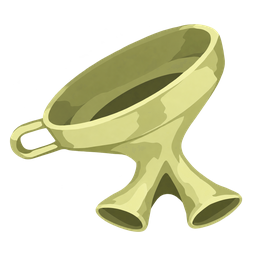
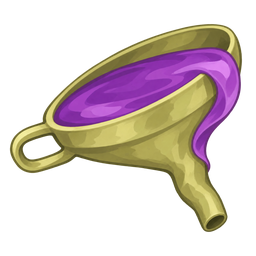
Release Relic Upgrades v0.113.1.5

diff --git a/src/RelicOverlayArt.cs b/src/RelicOverlayArt.cs
@@ -1,0 +1,68 @@
+using Godot;
+using MegaCrit.Sts2.Core.Models;
+
+namespace AaaCode.RelicForge;
+
+internal static class RelicOverlayArt
+{
+    private static readonly Dictionary<string, ImageTexture> Icons = new(StringComparer.Ordinal);
+
+    internal static string? Resolve(string size, string overlayPath, RelicModel original)
+    {
+        if (size == "outline")
+            return original.IconOutline?.ResourcePath;
+
+        lock (Icons)
+        {
+            if (Icons.TryGetValue(overlayPath, out var cached))
+                return cached.ResourcePath;
+
+            var source = size == "detail" ? original.BigIcon : original.Icon;
+            if (source is null || !ResourceLoader.Exists(overlayPath, "Texture2D"))
+                return source?.ResourcePath;
+
+            var overlay = ResourceLoader.Load<Texture2D>(overlayPath);
+            using var overlayImage = CopyPixels(overlay);
+            using var image = ReadIcon(source);
+            if (image is null || overlayImage is null || image.GetSize() != overlayImage.GetSize())
+                return source.ResourcePath;
+
+            image.BlendRect(overlayImage, new Rect2I(Vector2I.Zero, overlayImage.GetSize()), Vector2I.Zero);
+
+            var icon = ImageTexture.CreateFromImage(image);
+            icon.TakeOverPath(overlayPath.Replace("/art/", "/composed/", StringComparison.Ordinal));
+            Icons.Add(overlayPath, icon);
+            return icon.ResourcePath;
+        }
+    }
+
+    private static Image? ReadIcon(Texture2D texture)
+    {
+        if (texture is not AtlasTexture atlas)
+            return CopyPixels(texture);
+
+        using var atlasImage = CopyPixels(atlas.Atlas);
+        if (atlasImage is null)
+            return null;
+
+        var icon = Image.CreateEmpty(texture.GetWidth(), texture.GetHeight(), false, Image.Format.Rgba8);
+        icon.BlitRect(atlasImage, (Rect2I)atlas.Region, (Vector2I)atlas.Margin.Position);
+        return icon;
+    }
+
+    private static Image? CopyPixels(Texture2D? texture)
+    {
+        using var source = texture?.GetImage();
+        if (source is null || source.IsEmpty())
+            return null;
+
+        var image = Image.CreateFromData(source.GetWidth(), source.GetHeight(), source.HasMipmaps(), source.GetFormat(), source.GetData());
+        if (image.IsCompressed() && image.Decompress() != Error.Ok)
+        {
+            image.Dispose();
+            return null;
+        }
+        image.Convert(Image.Format.Rgba8);
+        return image;
+    }
+}

diff --git a/src/ForgeCatalog.Generated.cs b/src/ForgeCatalog.Generated.cs
@@ -336,8 +336,10 @@ public sealed class ForgedTwistedFunnel : CatalogRelic
 {
     internal override string MaterialId => "TWISTED_FUNNEL";
     internal override RelicModel Original => ModelDb.Relic<TwistedFunnel>();
-    internal override string ChineseName => "双口漏斗";
-    internal override string ChineseEffect => "战斗开始时向全体敌人施加4层中毒。第2回合开始时，再为仍处于中毒的敌人各补2层。";
+    internal override string ChineseName => "溢流漏斗";
+    internal override string EnglishName => "Overflow Funnel";
+    internal override string ChineseEffect => "战斗开始时，给所有敌人施加4层中毒。每场战斗第一次你使一名敌人的中毒从不足8层叠到至少8层时，给所有敌人各施加2层中毒。";
+    internal override string EnglishEffect => "At the start of combat, apply 4 Poison to all enemies. The first time each combat you raise an enemy's Poison from below 8 to 8 or more, apply 2 Poison to all enemies.";
 }
 
 public sealed class ForgedParryingShield : CatalogRelic

diff --git a/src/CatalogCombatTriggers.cs b/src/CatalogCombatTriggers.cs
@@ -126,6 +126,12 @@ public abstract partial class CatalogRelic
         if (applier != Me || !power.Owner.IsEnemy) return;
         switch (MaterialId)
         {
+            case "TWISTED_FUNNEL" when power is PoisonPower && power.Owner.IsAlive && power.Amount >= 8 &&
+                 power.Amount - amount < 8 && CombatOnce("funnel-overflow"):
+                Flash();
+                foreach (Creature enemy in Enemies.ToArray())
+                    await Apply<PoisonPower>(enemy, 2, context);
+                break;
             case "SNECKO_SKULL" when power is PoisonPower && power.Amount >= 10 && power.Amount - amount < 10 && CombatOnce("venom-ten"):
                 await Apply<WeakPower>(power.Owner, 1, context); break;
             case "PAPER_KRANE" when power is WeakPower && power.Amount - amount > 0 && CombatOnce("double-weak"):

diff --git a/src/CatalogCombat.cs b/src/CatalogCombat.cs
@@ -71,12 +71,6 @@ public abstract partial class CatalogRelic
         await Native.BeforeSideTurnStart(choiceContext, side, participants, combatState);
         if (!OurSide(side, participants)) return;
         if (MaterialId == "POWER_CELL" && Turn == 1) MarkHandTail(HandCount - hand);
-
-        if (MaterialId == "TWISTED_FUNNEL" && Turn == 2)
-        {
-            foreach (Creature enemy in Enemies.Where(enemy => enemy.HasPower<PoisonPower>()).ToArray())
-                await Apply<PoisonPower>(enemy, 2, choiceContext);
-        }
     }
 
     public override async Task AfterSideTurnStart(CombatSide side, IReadOnlyList<Creature> participants, ICombatState combatState)

diff --git a/src/ForgedRelics.cs b/src/ForgedRelics.cs
@@ -42,6 +42,10 @@ public abstract class ForgedRelic : CustomRelicModel
     private string? FindArt(string size)
     {
         string path = $"{ArtRoot}/{size}/{PreviewIcon}.res";
+        if (this is CatalogRelic relic && PreviewIcon is
+            "bound_phylactery" or "juzu_bracelet" or "venerable_tea_set" or "blood_vial" or
+            "ornamental_fan" or "paper_phrog" or "pantograph" or "akabeko" or "tingsha")
+            return RelicOverlayArt.Resolve(size, path, relic.Original);
         return ResourceLoader.Exists(path, "Texture2D") ? path : null;
     }
 }

diff --git a/README.md b/README.md
@@ -1,6 +1,6 @@
 # 杀戮尖塔 2 · 遗物升级
 
-遗物升级 v0.113.1.4 对应《杀戮尖塔 2》v0.113.1，适用于单人标准模式，需要 BaseLib v3.4.8。源码在 `src`，图标 PNG 在 `art`。
+遗物升级 v0.113.1.5 对应《杀戮尖塔 2》v0.113.1，适用于单人标准模式，需要 BaseLib v3.4.8。源码在 `src`，图标 PNG 在 `art`。
 
 Mod 版本号采用 `游戏版本.更新序号`。同一游戏版本下从 `.1` 开始，后续更新依次使用 `.2`、`.3`。适配新游戏版本时，更新前三段并从 `.1` 重新计数。游戏清单采用加载器支持的格式，例如 `0.113.1-1` 对应 Mod `v0.113.1.1`。
 
